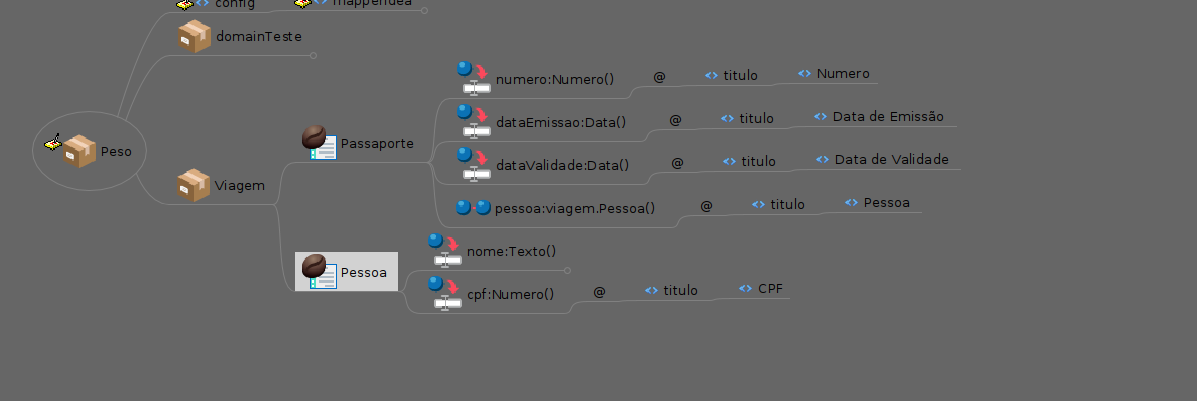
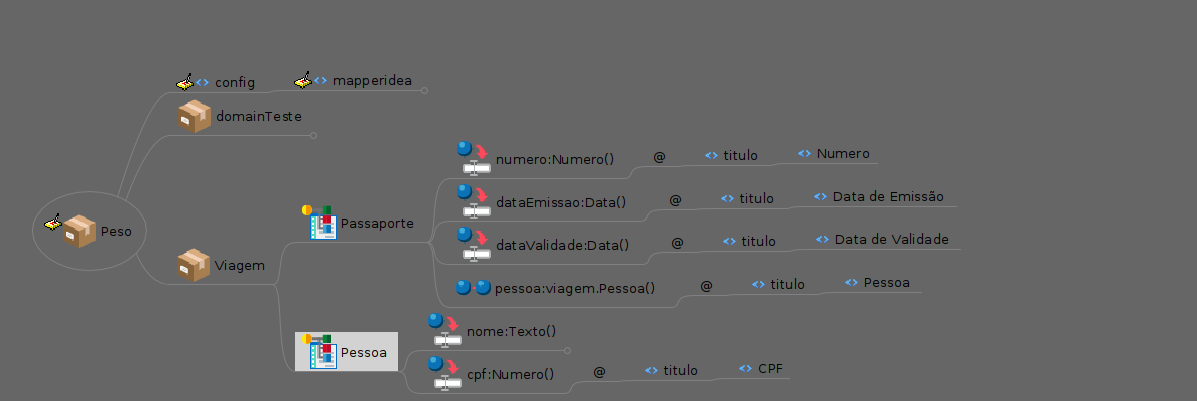
dados

diff --git a/br.com.inova.mm b/br.com.inova.mm
@@ -244,8 +244,8 @@
 </node>
 <node CREATED="1724160188329" ID="ID_1703579720" MODIFIED="1724160209753" POSITION="right" TEXT="Viagem">
 <icon BUILTIN="Package"/>
-<node CREATED="1724160211505" ID="ID_787030151" MODIFIED="1724160222639" TEXT="Passaporte">
-<icon BUILTIN="Descriptor.bean"/>
+<node CREATED="1724160211505" ID="ID_787030151" MODIFIED="1724163361180" TEXT="Passaporte">
+<icon BUILTIN="Descriptor.class"/>
 <node CREATED="1683718450531" ID="ID_1091144503" MODIFIED="1724160382152" TEXT="numero:Numero()">
 <icon BUILTIN="Mapping.directToField"/>
 <node CREATED="1683748912544" ID="ID_1215086021" MODIFIED="1685101376214" TEXT="@">
@@ -291,9 +291,9 @@
 </node>
 </node>
 </node>
-<node CREATED="1724160211505" ID="ID_462495490" MODIFIED="1724160235016" TEXT="Pessoa">
-<icon BUILTIN="Descriptor.bean"/>
-<node CREATED="1683718450531" ID="ID_998288195" MODIFIED="1684861377437" TEXT="nome: Texto()">
+<node CREATED="1724160211505" ID="ID_462495490" MODIFIED="1724163365484" TEXT="Pessoa">
+<icon BUILTIN="Descriptor.class"/>
+<node CREATED="1683718450531" FOLDED="true" ID="ID_998288195" MODIFIED="1724161265934" TEXT="nome:Texto()">
 <icon BUILTIN="Mapping.directToField"/>
 <node CREATED="1683748912544" ID="ID_35976872" MODIFIED="1685101376214" TEXT="@">
 <node CREATED="1683748918570" ID="ID_215880269" MODIFIED="1685101376214" TEXT="titulo">
@@ -304,7 +304,7 @@
 </node>
 </node>
 </node>
-<node CREATED="1683718450531" ID="ID_747018500" MODIFIED="1724160342176" TEXT="cpf: Numero()">
+<node CREATED="1683718450531" ID="ID_747018500" MODIFIED="1724161271430" TEXT="cpf:Numero()">
 <icon BUILTIN="Mapping.directToField"/>
 <node CREATED="1683748912544" ID="ID_491795037" MODIFIED="1685101376214" TEXT="@">
 <node CREATED="1683748918570" ID="ID_714470504" MODIFIED="1685101376214" TEXT="titulo">
